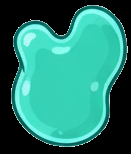
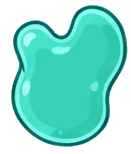
image transparency debugged

diff --git a/image.py b/image.py
@@ -29,7 +29,7 @@ class Image:
         return self.rect.h
 
     def scale_by(self, factor):
-        return Image(pygame.transform.scale(self.surface, (factor*self.w, factor*self.h)),
+        return Image(pygame.transform.scale(self.surface, (factor*self.w, factor*self.h)).convert_alpha(),
             self.mask.scale((factor*self.w, factor*self.h)))
 
     def rescale(self, width):
@@ -53,7 +53,6 @@ class Image:
             if newpath.exists():
                 #if the image has been preprocessed before, load it into the games cache
                 surface = pygame.image.load(newpath)
-                surface.set_colorkey((0,0,0))
                 mask = pygame.mask.from_surface(surface)
                 image = Image(surface, mask)
                 cls.cache[path] = image
@@ -68,33 +67,35 @@ class Image:
                 temp.set_colorkey(colorkey)
                 #temp has now transparent boundary, but unfortunately
                 #maybe also transparent pixels in the inside
-                mask = pygame.mask.from_surface(temp)
-                mask.invert() #the inverted mask covers all transparent pixels
-                mask = mask.connected_component() #this component is exactly the boundary
-                mask.invert() #its inverse is the mask of the actual figure on the image
-                raw_image = mask.to_surface(surface=raw_image, setcolor=None)
-                #now its boundary is black
-            raw_image.set_colorkey((0,0,0))
+                temp_mask = pygame.mask.from_surface(temp)
+                temp_mask.invert() #the inverted mask covers all transparent pixels
+                temp_mask = temp_mask.connected_component() #this component is exactly the boundary
+                temp_mask.invert() #its inverse is the mask of the actual figure on the image
+                alpha_surf = temp_mask.to_surface(setcolor=(255,255,255,255),
+                                                  unsetcolor=(0,0,0,0))
+                new_raw = pygame.Surface(raw_image.get_size(), pygame.SRCALPHA)
+                new_raw.blit(raw_image, (0,0))
+                new_raw.blit(alpha_surf, (0,0), special_flags=pygame.BLEND_RGBA_MULT)
+                raw_image = new_raw # now its boundary is transparent
             bounding_rect = raw_image.get_bounding_rect()
-            surface = pygame.Surface(bounding_rect.size)
+            surface = pygame.Surface(bounding_rect.size, pygame.SRCALPHA)
             #surface now has its boundary trimmed to the smallest rectangle
             #containing the complete figure
             surface.blit(raw_image,(0,0),bounding_rect)
-            surface.set_colorkey((0,0,0))
             #rescales the image according to the parameters and the grid_width
             if scaling_width:
                 factor = scaling_width*settings.grid_width/100 / bounding_rect.w
                 surface = pygame.transform.scale(
-                        surface, (factor*bounding_rect.w, factor*bounding_rect.h))
+                        surface, (factor*bounding_rect.w, factor*bounding_rect.h)).convert_alpha()
             elif scaling_height:
                 factor = scaling_height*settings.grid_width/100 / bounding_rect.h
                 surface = pygame.transform.scale(
-                            surface, (factor*bounding_rect.w, factor*bounding_rect.h))
+                            surface, (factor*bounding_rect.w, factor*bounding_rect.h)).convert_alpha()
             else:
                 if not scaling_factor:
                     scaling_factor = settings.grid_width/100
                 surface = pygame.transform.scale(
-                    surface, (scaling_factor*settings.grid_width/100*bounding_rect.w, scaling_factor*settings.grid_width/100*bounding_rect.h))
+                    surface, (scaling_factor*settings.grid_width/100*bounding_rect.w, scaling_factor*settings.grid_width/100*bounding_rect.h)).convert_alpha()
             mask = pygame.mask.from_surface(surface)
 
             #preprocessed Image-object, ready to be used in the game

diff --git a/alien.py b/alien.py
@@ -23,9 +23,9 @@ def normalize(v):
     return (v[0]/norm_v,v[1]/norm_v)
 
 w,N=settings.alien_width["blob"],settings.alien_energy["blob"]
-big_blob_image = Image.load("images/alien/blob0.png", scaling_width=w)
-medium_blob_image = Image.load("images/alien/blob1.png", scaling_width=w)
-small_blob_image = Image.load("images/alien/blob2.png", scaling_width=w)
+big_blob_image = Image.load("images/alien/blob0.png", colorkey=settings.alien_colorkey["blob"], scaling_width=w)
+medium_blob_image = Image.load("images/alien/blob1.png", colorkey=settings.alien_colorkey["blob"], scaling_width=w)
+small_blob_image = Image.load("images/alien/blob2.png", colorkey=settings.alien_colorkey["blob"], scaling_width=w)
 blob_images = [small_blob_image.scale_by((N/n)**(-1/3)) for n in range(1,N//8)]+[medium_blob_image.scale_by((N/n)**(-1/3)) for n in range(N//8,N//4+1)]+[big_blob_image.scale_by((N/n)**(-1/3)) for n in range(N//4+1, N+1)]
 
 class Alien(Sprite):
@@ -43,7 +43,7 @@ class Alien(Sprite):
             v = settings.alien_speed[type]
         #Load frames and images
         if type in ["big_asteroid", "small_asteroid"]:
-            super().__init__(frames = [Image.load(f"images/{type}/{str(n+1)}.png", scaling_width=settings.alien_width[type]) for n in range(14)], animation_type="loop", fps=10, grid=grid, center=center, x=x, y=y, v=v, direction=direction,
+            super().__init__(frames = [Image.load(f"images/{type}/{str(n+1)}.png", colorkey=settings.alien_colorkey[type], scaling_width=settings.alien_width[type]) for n in range(14)], animation_type="loop", fps=10, grid=grid, center=center, x=x, y=y, v=v, direction=direction,
                          constraints=constraints, boundary_behaviour=boundary_behaviour)
             #mass is so far only relevant for collisions between the asteroids and blobs
             self.m = (self.w/settings.grid_width)**3

diff --git a/bullet.py b/bullet.py
@@ -10,6 +10,7 @@ from math import ceil
 w,N=settings.bullet_width["blubber"],settings.alien_energy["blob"]
 blubber_image = Image.load(f'images/bullet/blubber.png', scaling_width = w)
 blubber_images = [blubber_image.scale_by((N/n)**(-1/3)) for n in range(1,N+1)]
+reflected_blubber_images = [Image.reflect(image, flip_x=True, flip_y=True) for image in blubber_images]
 
 class Bullet(Sprite):
     """A class to manage the bullets shot by the player or enemies"""
@@ -36,6 +37,7 @@ class Bullet(Sprite):
             sound.blubber.play()
             if size is None:
                 size = settings.alien_energy["blob"]
+            self.size = size
             image = blubber_images[size-1]
             self.damage = ceil(size/settings.alien_energy["blob"]*settings.bullet_damage[type])
         elif type == "missile":
@@ -69,4 +71,8 @@ class Bullet(Sprite):
     def reflect(self):
         sound.shield.stop()
         sound.shield_reflect.play()
-        super().reflect(flip_x=True, flip_y=True)
+        if self.type == "blubber":
+            self.direction = (-self.direction[0],-self.direction[1])
+            self.change_image(reflected_blubber_images[self.size-1])
+        else:
+            super().reflect(flip_x=True, flip_y=True)

diff --git a/test.py b/test.py
@@ -1,15 +1,32 @@
 import pygame, sys
-import screen
 
 pygame.init()
 
 clock = pygame.time.Clock()
 
-while True:
-    
-    screen.screen.fill((255,0,0))
-    screen.blit_screen_on_display()
+screen = pygame.display.set_mode((1000,500)) 
+path = "images/alien/ufo.png"
+colorkey = (0,0,0)
 
+raw_image = pygame.image.load(path)
+if colorkey != (0,0,0):
+    raw_image.set_colorkey((0,0,0))
+    temp = raw_image.copy()
+    temp.set_colorkey(colorkey)
+    mask = pygame.mask.from_surface(temp)
+    mask.invert() #the inverted mask covers all transparent pixels
+    mask = mask.connected_component() #this component is exactly the boundary
+    mask.invert() #its inverse is the mask of the actual figure on the image
+    raw_image = mask.to_surface(surface=raw_image, setcolor=None)
+bounding_rect = raw_image.get_bounding_rect()
+cropped = pygame.Surface(bounding_rect.size, pygame.SRCALPHA)
+cropped.blit(raw_image,(0,0), bounding_rect)
+#surface.blit(cropped,(0,0),bounding_rect)
+
+while True:
+       
+    screen.fill((255,0,0))
+    screen.blit(cropped,(100,20))
     pygame.display.flip()
 
 

diff --git a/level.py b/level.py
@@ -251,9 +251,12 @@ class Level:
                 if self.ship.status == "shield" or self.status == "start":
                     alien.reflect()
                 else:
-                    self.ship.get_damage(alien.energy)
-                    alien.energy = 0
-                    alien.kill()
+                    if self.ship.energy > alien.energy:
+                        self.ship.get_damage(alien.energy)
+                        alien.energy = 0
+                        alien.kill()
+                    else:
+                        self.ship.get_damage(alien.energy)
         
     def ship_collects_item(self):
         """Check if ship collects an item"""
